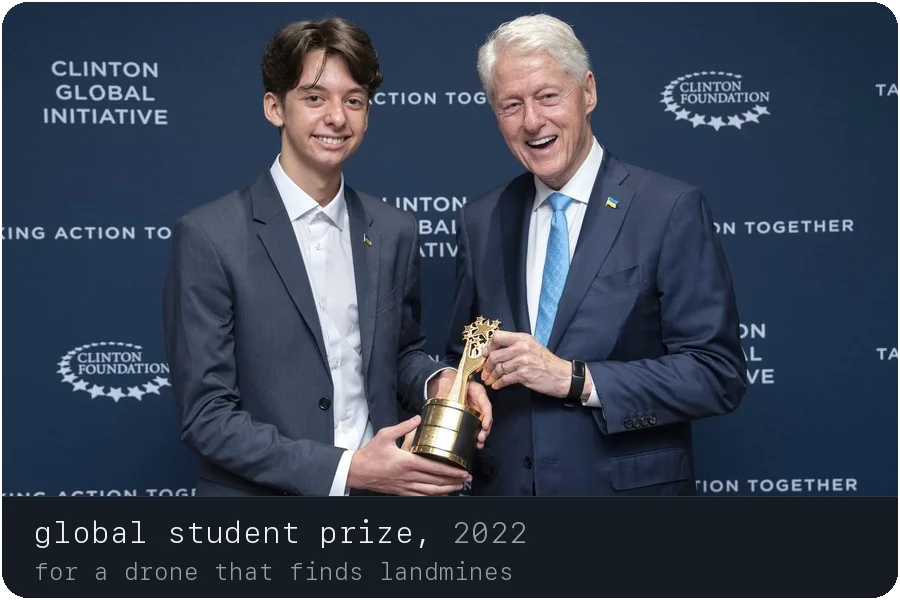
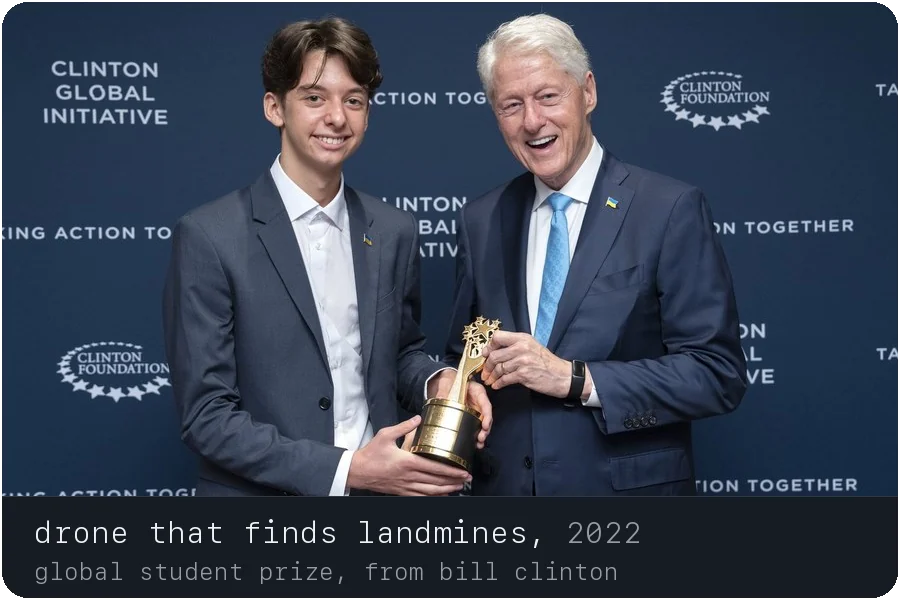
Profile cards: prize card leads with the drone

diff --git a/README.md b/README.md
@@ -8,5 +8,5 @@ non-commercial things I have built. the rest is on [igorklymenko.com](https://ww
 <p>
 <a href="https://github.com/IgorKlymenko/drone-warehouse-mapping"><img src="img/card-warehouse.webp" width="32%" alt="Warehouse aisle stitched and measured from drone video" title="Warehouse aisle stitched and measured from drone video, 2024"></a>
 <a href="https://github.com/IgorKlymenko/drone-thermal-landmine-detection"><img src="img/card-landmine.webp" width="32%" alt="Landmines spotted in drone thermal imagery" title="Landmines spotted in drone thermal imagery, 2025"></a>
-<a href="https://globalteacherprize.org/pages/igor-klymenko-2022"><img src="img/card-prize.webp" width="32%" alt="Global Student Prize 2022, for a drone that finds landmines" title="Global Student Prize 2022, for a drone that finds landmines"></a>
+<a href="https://globalteacherprize.org/pages/igor-klymenko-2022"><img src="img/card-prize.webp" width="32%" alt="A drone that finds landmines, Global Student Prize 2022" title="A drone that finds landmines, Global Student Prize 2022"></a>
 </p>
